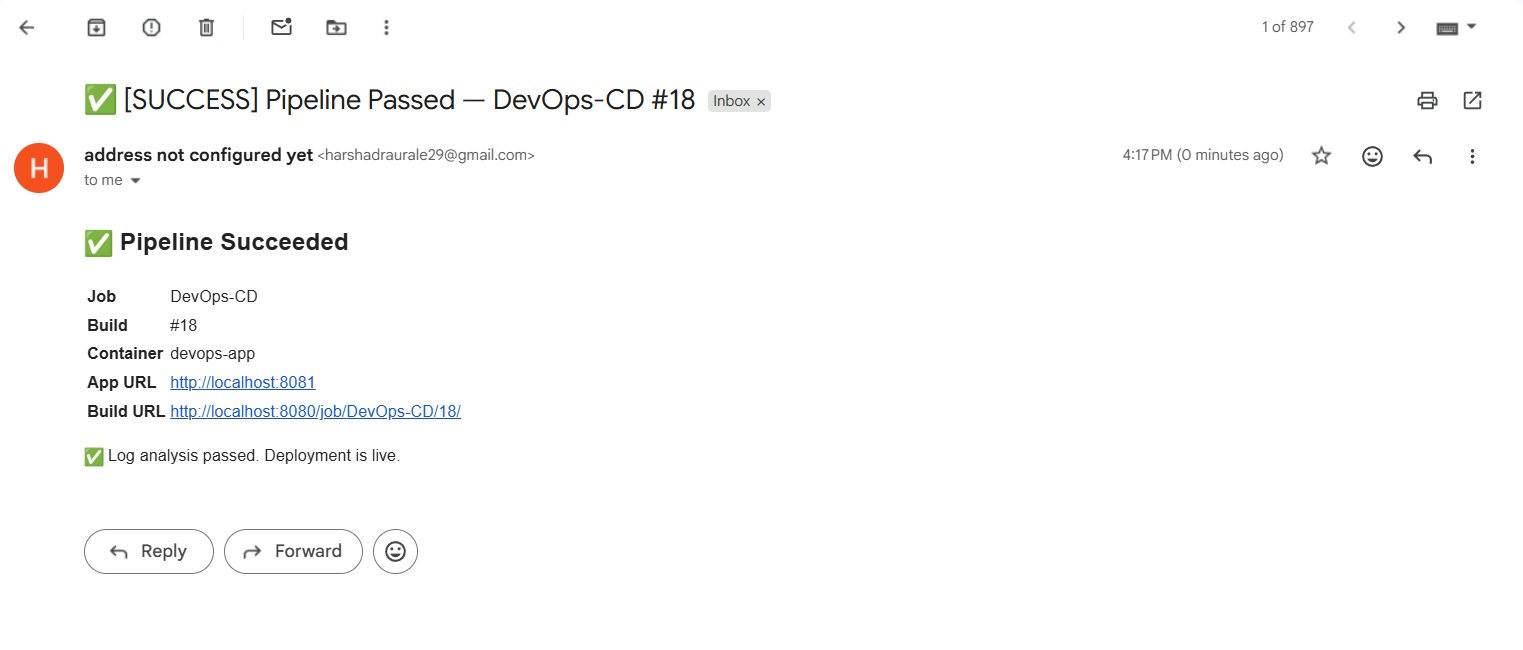
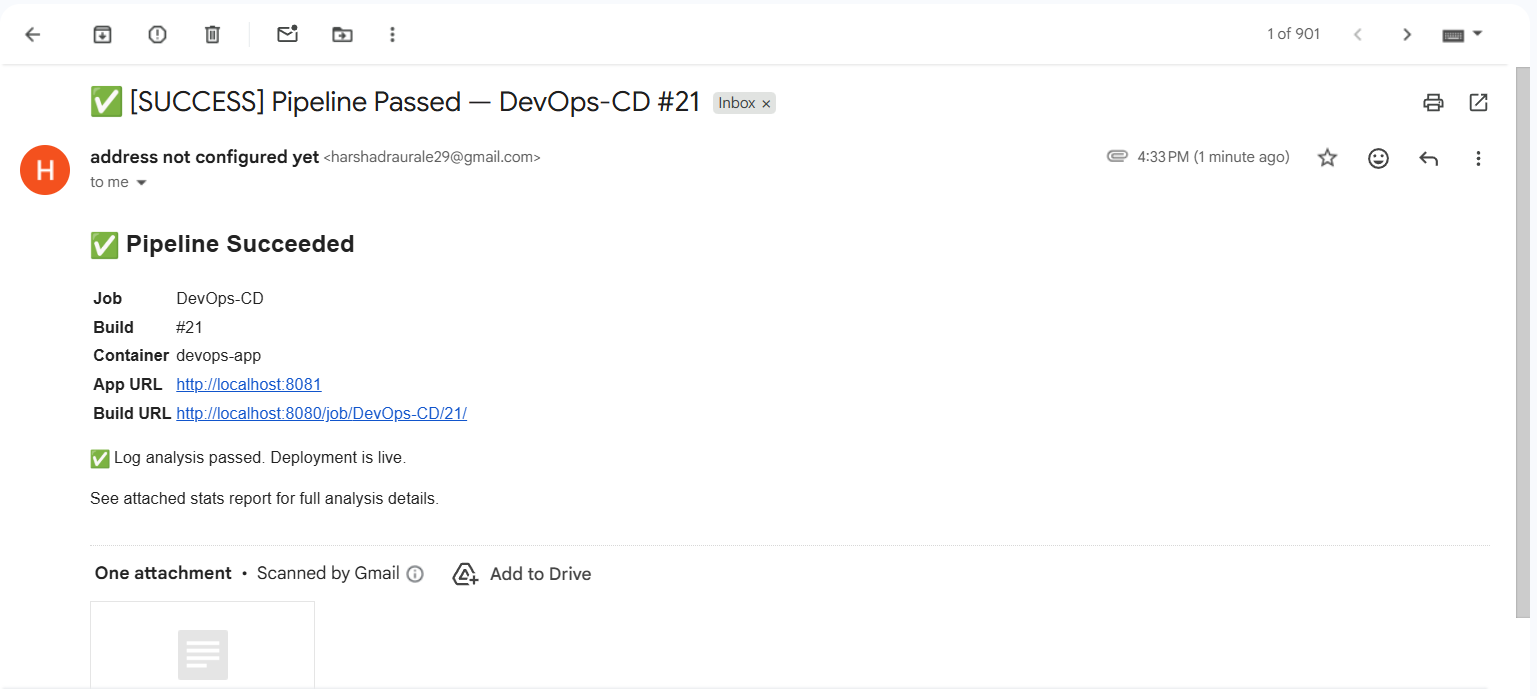
Readme updated

diff --git a/README.md b/README.md
@@ -60,6 +60,53 @@ DevOps-CICD/
 
 ---
 
+## 🔍 Automated Log Analysis
+
+`log_analyzer.sh` runs as a dedicated Jenkins pipeline stage after every deployment. It pulls logs directly from the running Docker container, analyzes them against configurable thresholds, writes a `.txt` stats report, and controls the pipeline outcome automatically.
+
+**Integrated with:**
+
+| Tool | Integration |
+|---|---|
+| **Docker** | Pulls logs directly from running container via `docker logs` |
+| **Jenkins** | Exit codes control pipeline pass / unstable / fail |
+| **GitHub** | Auto-creates labeled issues when critical errors found |
+| **Email** | Sends HTML alert with `.txt` stats report attached |
+
+**How it works:**
+```
+Container starts
+      ↓
+log_analyzer.sh fetches last 500 lines from docker logs
+      ↓
+Scans for ERROR, FATAL, CRITICAL, EXCEPTION  → threshold: 5
+Scans for WARN, WARNING, DEPRECATED          → threshold: 10
+      ↓
+      ├── All clean      → exit 0 → ✅ Jenkins SUCCESS  → email + stats.txt attached
+      ├── Warnings only  → exit 2 → 🟡 Jenkins UNSTABLE → email + stats.txt attached
+      └── Critical found → exit 3 → 🔴 Jenkins FAILURE  → deployment blocked
+                                                         → email + stats.txt attached
+                                                         → GitHub issue auto-created
+```
+
+**Pipeline decision table:**
+
+| Result | Exit Code | Jenkins Status | Action Taken |
+|---|---|---|---|
+| No issues found | 0 | ✅ SUCCESS | Deployment proceeds, email + report sent |
+| Warnings > threshold | 2 | 🟡 UNSTABLE | Deploy allowed, team emailed with report |
+| Critical errors > threshold | 3 | 🔴 FAILURE | Deployment blocked, GitHub issue created |
+
+📸 **Stats Report Attached to Email:**
+
+![Stats Report](screenshots/attachment.png)
+
+📸 **Critical Failure Email — Deployment Blocked:**
+
+![Fail Email](screenshots/fail_mail.png)
+
+---
+
 ## ⚙ CI/CD Pipeline Workflow
 
 ### Step 1 — Code Commit & Push
@@ -101,7 +148,7 @@ After the build succeeds, the Docker image is automatically pushed to **Docker H
 
 ### Step 4 — Jenkins CD Pipeline Triggered
 
-Jenkins clones the repository, pulls the latest verified image from Docker Hub, deploys the container, runs log analysis, and sends an email notification.
+Jenkins clones the repository, pulls the latest verified image from Docker Hub, deploys the container, runs log analysis, and sends an email notification with the stats report attached.
 
 **Jenkins Pipeline Stages:**
 - ✅ Clone Repository
@@ -109,7 +156,7 @@ Jenkins clones the repository, pulls the latest verified image from Docker Hub, 
 - ✅ Run Container
 - ✅ Log Analysis
 - ✅ Verify Deployment
-- ✅ Email Notification
+- ✅ Email Notification with Stats Report Attached
 
 📸 **Jenkins Pipeline — All Stages Green:**
 
@@ -119,25 +166,58 @@ Jenkins clones the repository, pulls the latest verified image from Docker Hub, 
 
 ### Step 5 — Log Analysis Runs Automatically
 
-After the container starts, `log_analyzer.sh` pulls logs directly from the running Docker container and analyzes them for errors and warnings.
+After the container starts, `log_analyzer.sh` pulls logs directly from the running Docker container, analyzes them, writes a timestamped `.txt` stats report, and exits with a code that controls the pipeline outcome.
 
-**Pipeline is controlled by exit codes:**
+**Sample stats report contents:**
+```
+====================================================
+  LOG ANALYSIS STATS REPORT
+====================================================
+Generated     : 2026-03-18 11:03:17
+Container     : devops-app
+Jenkins Job   : DevOps-CD
+Build Number  : #21
+Lines Scanned : 500
+====================================================
 
-| Result | Exit Code | Jenkins Status | Action Taken |
-|---|---|---|---|
-| No issues found | 0 | ✅ SUCCESS | Deployment proceeds |
-| Warnings > threshold | 2 | 🟡 UNSTABLE | Deploy allowed, team emailed |
-| Critical errors > threshold | 3 | 🔴 FAILURE | Deployment blocked, GitHub issue created |
+--------------------------------------------------
+  CRITICAL ERROR PATTERNS  (threshold: 5)
+--------------------------------------------------
+  ERROR     : 0 occurrences
+  FATAL     : 0 occurrences
+  CRITICAL  : 0 occurrences
+  EXCEPTION : 0 occurrences
+
+--------------------------------------------------
+  WARNING PATTERNS  (threshold: 10)
+--------------------------------------------------
+  WARN       : 0 occurrences
+  WARNING    : 0 occurrences
+  DEPRECATED : 0 occurrences
+
+====================================================
+  PIPELINE DECISION SUMMARY
+====================================================
+Status          : PASSED
+Critical Issues : 0 pattern(s) exceeded threshold
+Warnings        : 0 pattern(s) exceeded threshold
+Action          : All checks passed. Deployment is proceeding.
+====================================================
+```
 
 ---
 
-### Step 6 — Email Notification Sent
+### Step 6 — Email Notification with Stats Report
 
-On every pipeline run, an email is automatically sent to the DevOps team with the result, build details, and a link to Jenkins.
+On every pipeline run, an email is automatically sent to the DevOps team with the result, build details, and the full `.txt` stats report attached.
 
-📸 **Email Alert Received:**
+📸 **Success Email with Stats Attachment:**
 
 ![Email Alert](screenshots/mail.png)
+
+📸 **Critical Failure Email — Deployment Blocked:**
+
+![Fail Email](screenshots/fail_mail.png)
 
 ---
 
@@ -211,9 +291,7 @@ pipeline {
         CONTAINER_NAME = 'devops-app'
         APP_PORT       = '8081'
         CONTAINER_PORT = '8080'
-        REPORT_DIR     = "${WORKSPACE}/reports"
         ALERT_EMAIL    = 'harshadraurale29@gmail.com'
-        FROM_EMAIL     = 'harshadraurale29@gmail.com'
         GITHUB_TOKEN   = credentials('github-token')
         GITHUB_REPO    = 'harshad8782/DevOps-CICD'
     }
@@ -255,15 +333,17 @@ pipeline {
             steps {
                 echo '🔍 Running log analysis on container...'
                 sh 'chmod +x log_analyzer.sh'
-                sh '''
-                    CONTAINER_NAME=${CONTAINER_NAME} \
-                    REPORT_DIR=${REPORT_DIR} \
-                    ALERT_EMAIL=${ALERT_EMAIL} \
-                    FROM_EMAIL=${FROM_EMAIL} \
-                    GITHUB_TOKEN=${GITHUB_TOKEN} \
-                    GITHUB_REPO=${GITHUB_REPO} \
+                sh """
+                    export CONTAINER_NAME=${CONTAINER_NAME}
+                    export ALERT_EMAIL=${ALERT_EMAIL}
+                    export GITHUB_TOKEN=${GITHUB_TOKEN}
+                    export GITHUB_REPO=${GITHUB_REPO}
+                    export WORKSPACE=${WORKSPACE}
+                    export BUILD_URL=${BUILD_URL}
+                    export JOB_NAME=${JOB_NAME}
+                    export BUILD_NUMBER=${BUILD_NUMBER}
                     ./log_analyzer.sh
-                '''
+                """
             }
         }
 
@@ -273,6 +353,7 @@ pipeline {
                 sh 'sleep 5'
                 sh 'docker ps | grep ${CONTAINER_NAME}'
                 sh 'docker logs ${CONTAINER_NAME} --tail=20'
+                sh 'ls -lh ${WORKSPACE}/reports/ || echo "No reports directory found"'
             }
         }
     }
@@ -297,13 +378,21 @@ pipeline {
                         <tr><td><b>Build URL</b></td><td><a href="${BUILD_URL}">${BUILD_URL}</a></td></tr>
                     </table>
                     <p>✅ Log analysis passed. Deployment is live.</p>
+                    <p>See attached stats report for full analysis details.</p>
                 """,
                 to: "${ALERT_EMAIL}",
-                mimeType: 'text/html'
+                mimeType: 'text/html',
+                attachmentsPattern: '**/reports/log_stats_*.txt'
             )
         }
 
         unstable {
+            echo '''
+            🟡 ================================
+               PIPELINE UNSTABLE!
+               Warnings found — check email.
+            ================================
+            '''
             emailext(
                 subject: "🟡 [WARNING] Pipeline Unstable — ${JOB_NAME} #${BUILD_NUMBER}",
                 body: """
@@ -315,9 +404,11 @@ pipeline {
                         <tr><td><b>Build URL</b></td><td><a href="${BUILD_URL}">${BUILD_URL}</a></td></tr>
                     </table>
                     <p>🟡 Warning patterns exceeded threshold. Deployment allowed but review needed.</p>
+                    <p>See attached stats report for full details.</p>
                 """,
                 to: "${ALERT_EMAIL}",
-                mimeType: 'text/html'
+                mimeType: 'text/html',
+                attachmentsPattern: '**/reports/log_stats_*.txt'
             )
         }
 
@@ -339,10 +430,12 @@ pipeline {
                         <tr><td><b>Build URL</b></td><td><a href="${BUILD_URL}">${BUILD_URL}</a></td></tr>
                     </table>
                     <p>🔴 Critical errors found. Deployment has been blocked.</p>
-                    <p>Fix errors and re-trigger the pipeline.</p>
+                    <p>A GitHub issue has been auto-created. Fix errors and re-trigger pipeline.</p>
+                    <p>See attached stats report for full details.</p>
                 """,
                 to: "${ALERT_EMAIL}",
-                mimeType: 'text/html'
+                mimeType: 'text/html',
+                attachmentsPattern: '**/reports/log_stats_*.txt'
             )
         }
 
@@ -352,37 +445,6 @@ pipeline {
         }
     }
 }
-```
-
----
-
-## 🔍 Automated Log Analysis
-
-`log_analyzer.sh` runs as a dedicated Jenkins pipeline stage after every deployment. It pulls logs directly from the running Docker container, analyzes them against configurable thresholds, and controls the pipeline outcome automatically.
-
-**Integrated with:**
-
-| Tool | Integration |
-|---|---|
-| **Docker** | Pulls logs directly from running container via `docker logs` |
-| **Jenkins** | Exit codes control pipeline pass / unstable / fail |
-| **GitHub** | Auto-creates labeled issues when critical errors found |
-| **Email** | Sends HTML alert with build details to DevOps team |
-
-**How it works:**
-```
-Container starts
-      ↓
-log_analyzer.sh fetches last 500 lines from docker logs
-      ↓
-Scans for ERROR, FATAL, CRITICAL, EXCEPTION  → threshold: 5
-Scans for WARN, WARNING, DEPRECATED          → threshold: 10
-      ↓
-      ├── All clean      → exit 0 → ✅ Jenkins SUCCESS → email sent
-      ├── Warnings only  → exit 2 → 🟡 Jenkins UNSTABLE → email sent
-      └── Critical found → exit 3 → 🔴 Jenkins FAILURE  → blocked
-                                                         → email sent
-                                                         → GitHub issue created
 ```
 
 ---
@@ -493,7 +555,7 @@ docker rm devops-app
 docker run -d \
     --name devops-app \
     -p 8080:8080 \
-    harshad8782/devops-demo:v1.4.1    # ← previous stable tag
+    harshad8782/devops-demo:v1.4.1
 ```
 
 ---
